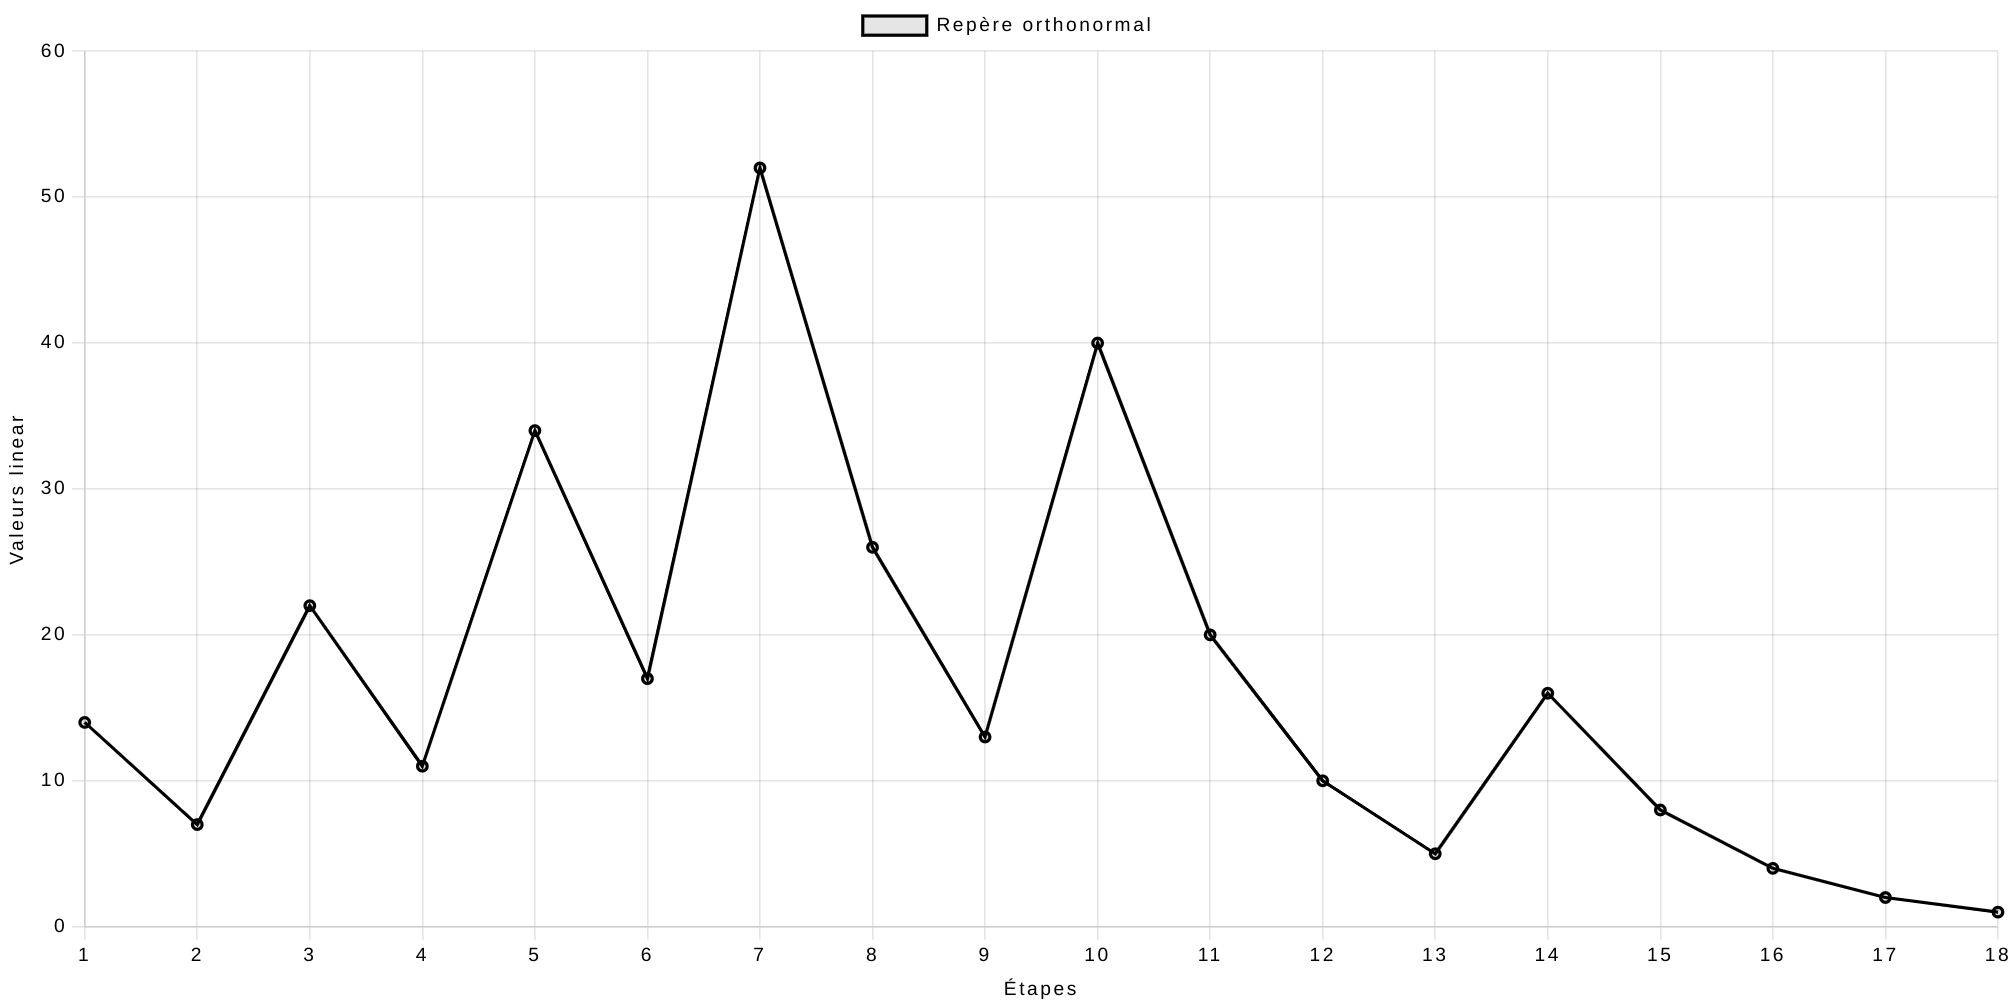
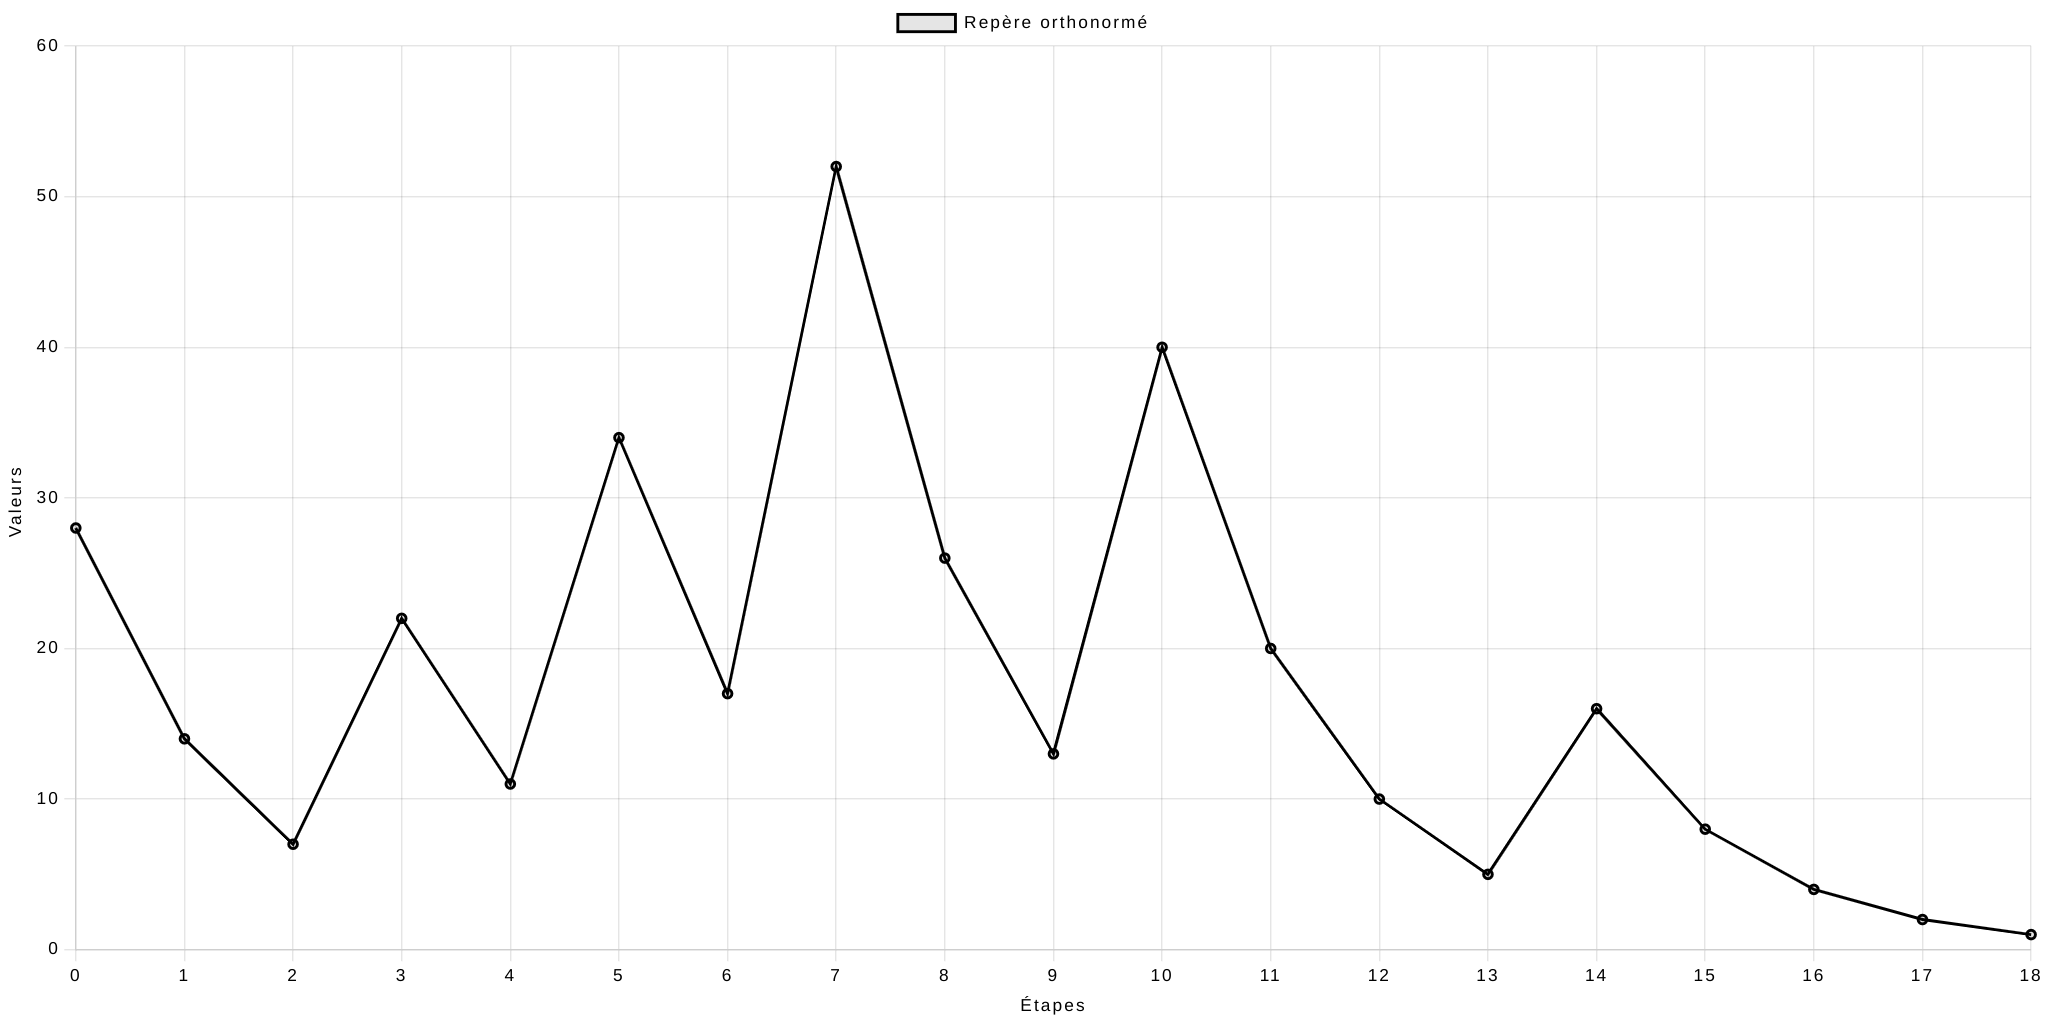
re indiçage des graphiques et changement txts

diff --git a/src/voca.html b/src/voca.html
@@ -95,21 +95,21 @@
             <div class="texte-presentation">
                 <h3>4. Temps de vol en altitude</h3>
                 <p>
-                    Le temps de vol en altitude d'un nombre est le plus petit indice \(n\) tel que \(u_{n+1} \lt u_n\).
+                    Le temps de vol en altitude d'un nombre est le plus petit indice \(n\) tel que \(u_{n} \lt u_0\).
                     Autrement dit, le temps de vol en altitude fait référence au nombre d'itération
-                    nécessaire avant que \(u_{n+1}\) devienne plus petit que le nombre de départ.
+                    nécessaire avant que \(u_n\) devienne plus petit que le nombre de départ.
                     <br>
-                    Dans notre exemple, \(u_0=12\) et \(u_5 \gt u_0\) mais \(u_6 \lt u_0\)
+                    Dans notre exemple, \(u_0=11\) et \(u_7 \gt u_0\) mais \(u_8 \lt u_0\)
                     <br>
-                    Le vol en altitude de 12 vaut donc 6.
+                    Le vol en altitude de 11 vaut donc 8.
                 </p>
             </div>
 
             <figure>
-                <a href="../assets/voca/12.png" target="_blank" rel="noopener noreferrer">
-                    <img src="../assets/voca/12.png" alt="Représentation graphique de la suite de Syracuse pour N = 12">
+                <a href="../assets/voca/11.png" target="_blank" rel="noopener noreferrer">
+                    <img src="../assets/voca/11.png" alt="Représentation graphique de la suite de Syracuse pour N = 11">
                 </a>
-                <figcaption>Représentation graphique de la suite de Syracuse pour \(N=12\)</figcaption>
+                <figcaption>Représentation graphique de la suite de Syracuse pour \(N=11\)</figcaption>
             </figure>
         </section>
 
